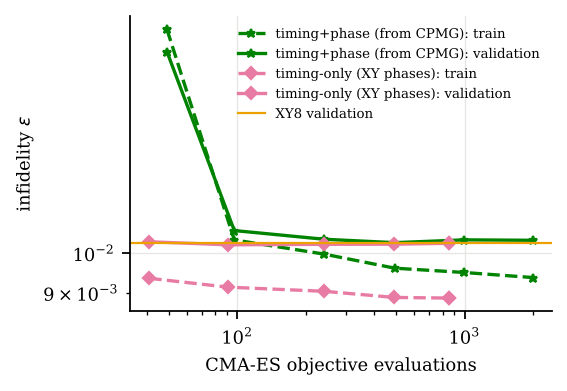
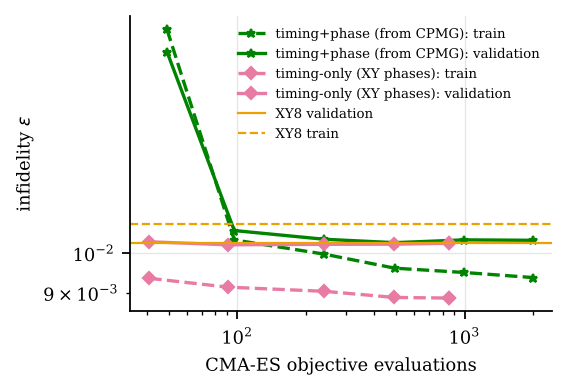
Convergence figure: show baseline training level

Changed region(s): [[0.2099, 0.5524, 0.9894, 0.5831], [0.4797, 0.3069, 0.5996, 0.3683], [0.4198, 0.3376, 0.4497, 0.3683]]

diff --git a/scripts/make_report_artifacts.py b/scripts/make_report_artifacts.py
@@ -255,6 +255,7 @@ def convergence(run: dict) -> None:
     best = min(("xy4", "xy8"), key=lambda k: np.mean(p["baselines"][k]["val_per_seed"]))
     ax.axhline(np.mean(p["baselines"][best]["val_per_seed"]), color=COLORS[best], lw=1,
                label=f"{LABEL[best]} validation")
+    ax.axhline(p["baselines"][best]["train"], color=COLORS[best], lw=1, ls="--", label=f"{LABEL[best]} train")
     ax.set_xscale("log")
     ax.set_yscale("log")
     ax.set_xlabel("CMA-ES objective evaluations")
